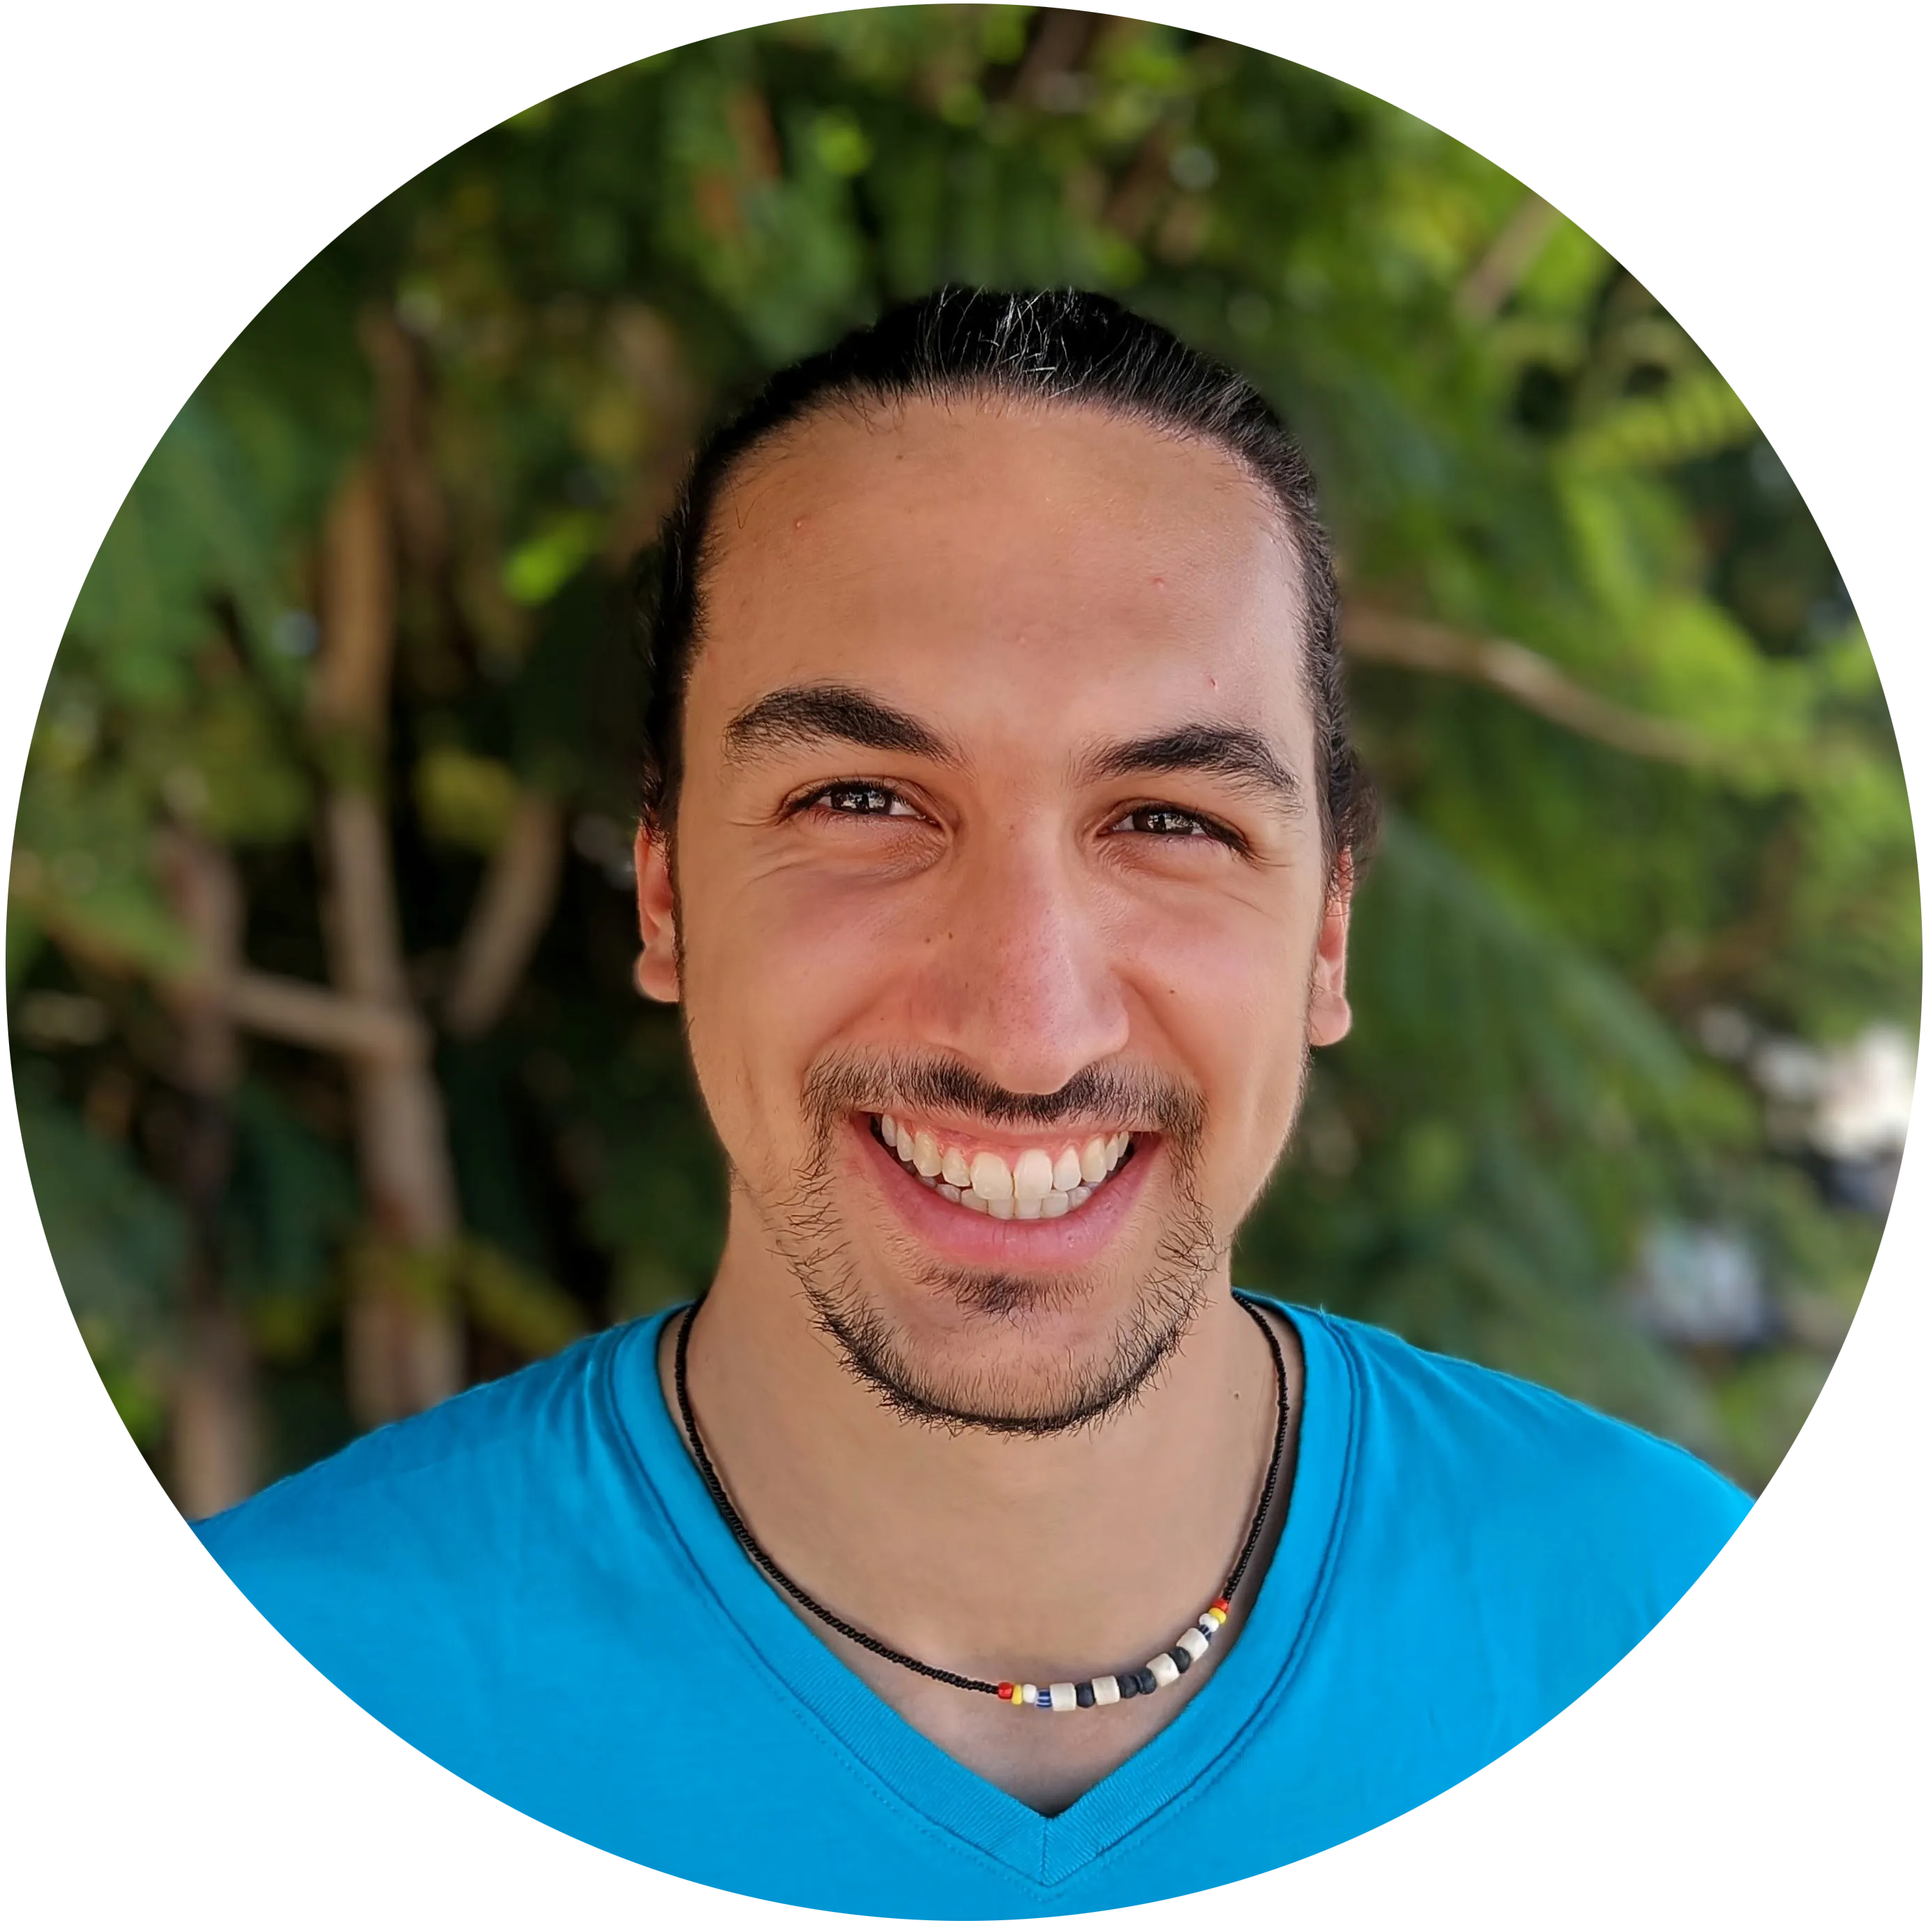
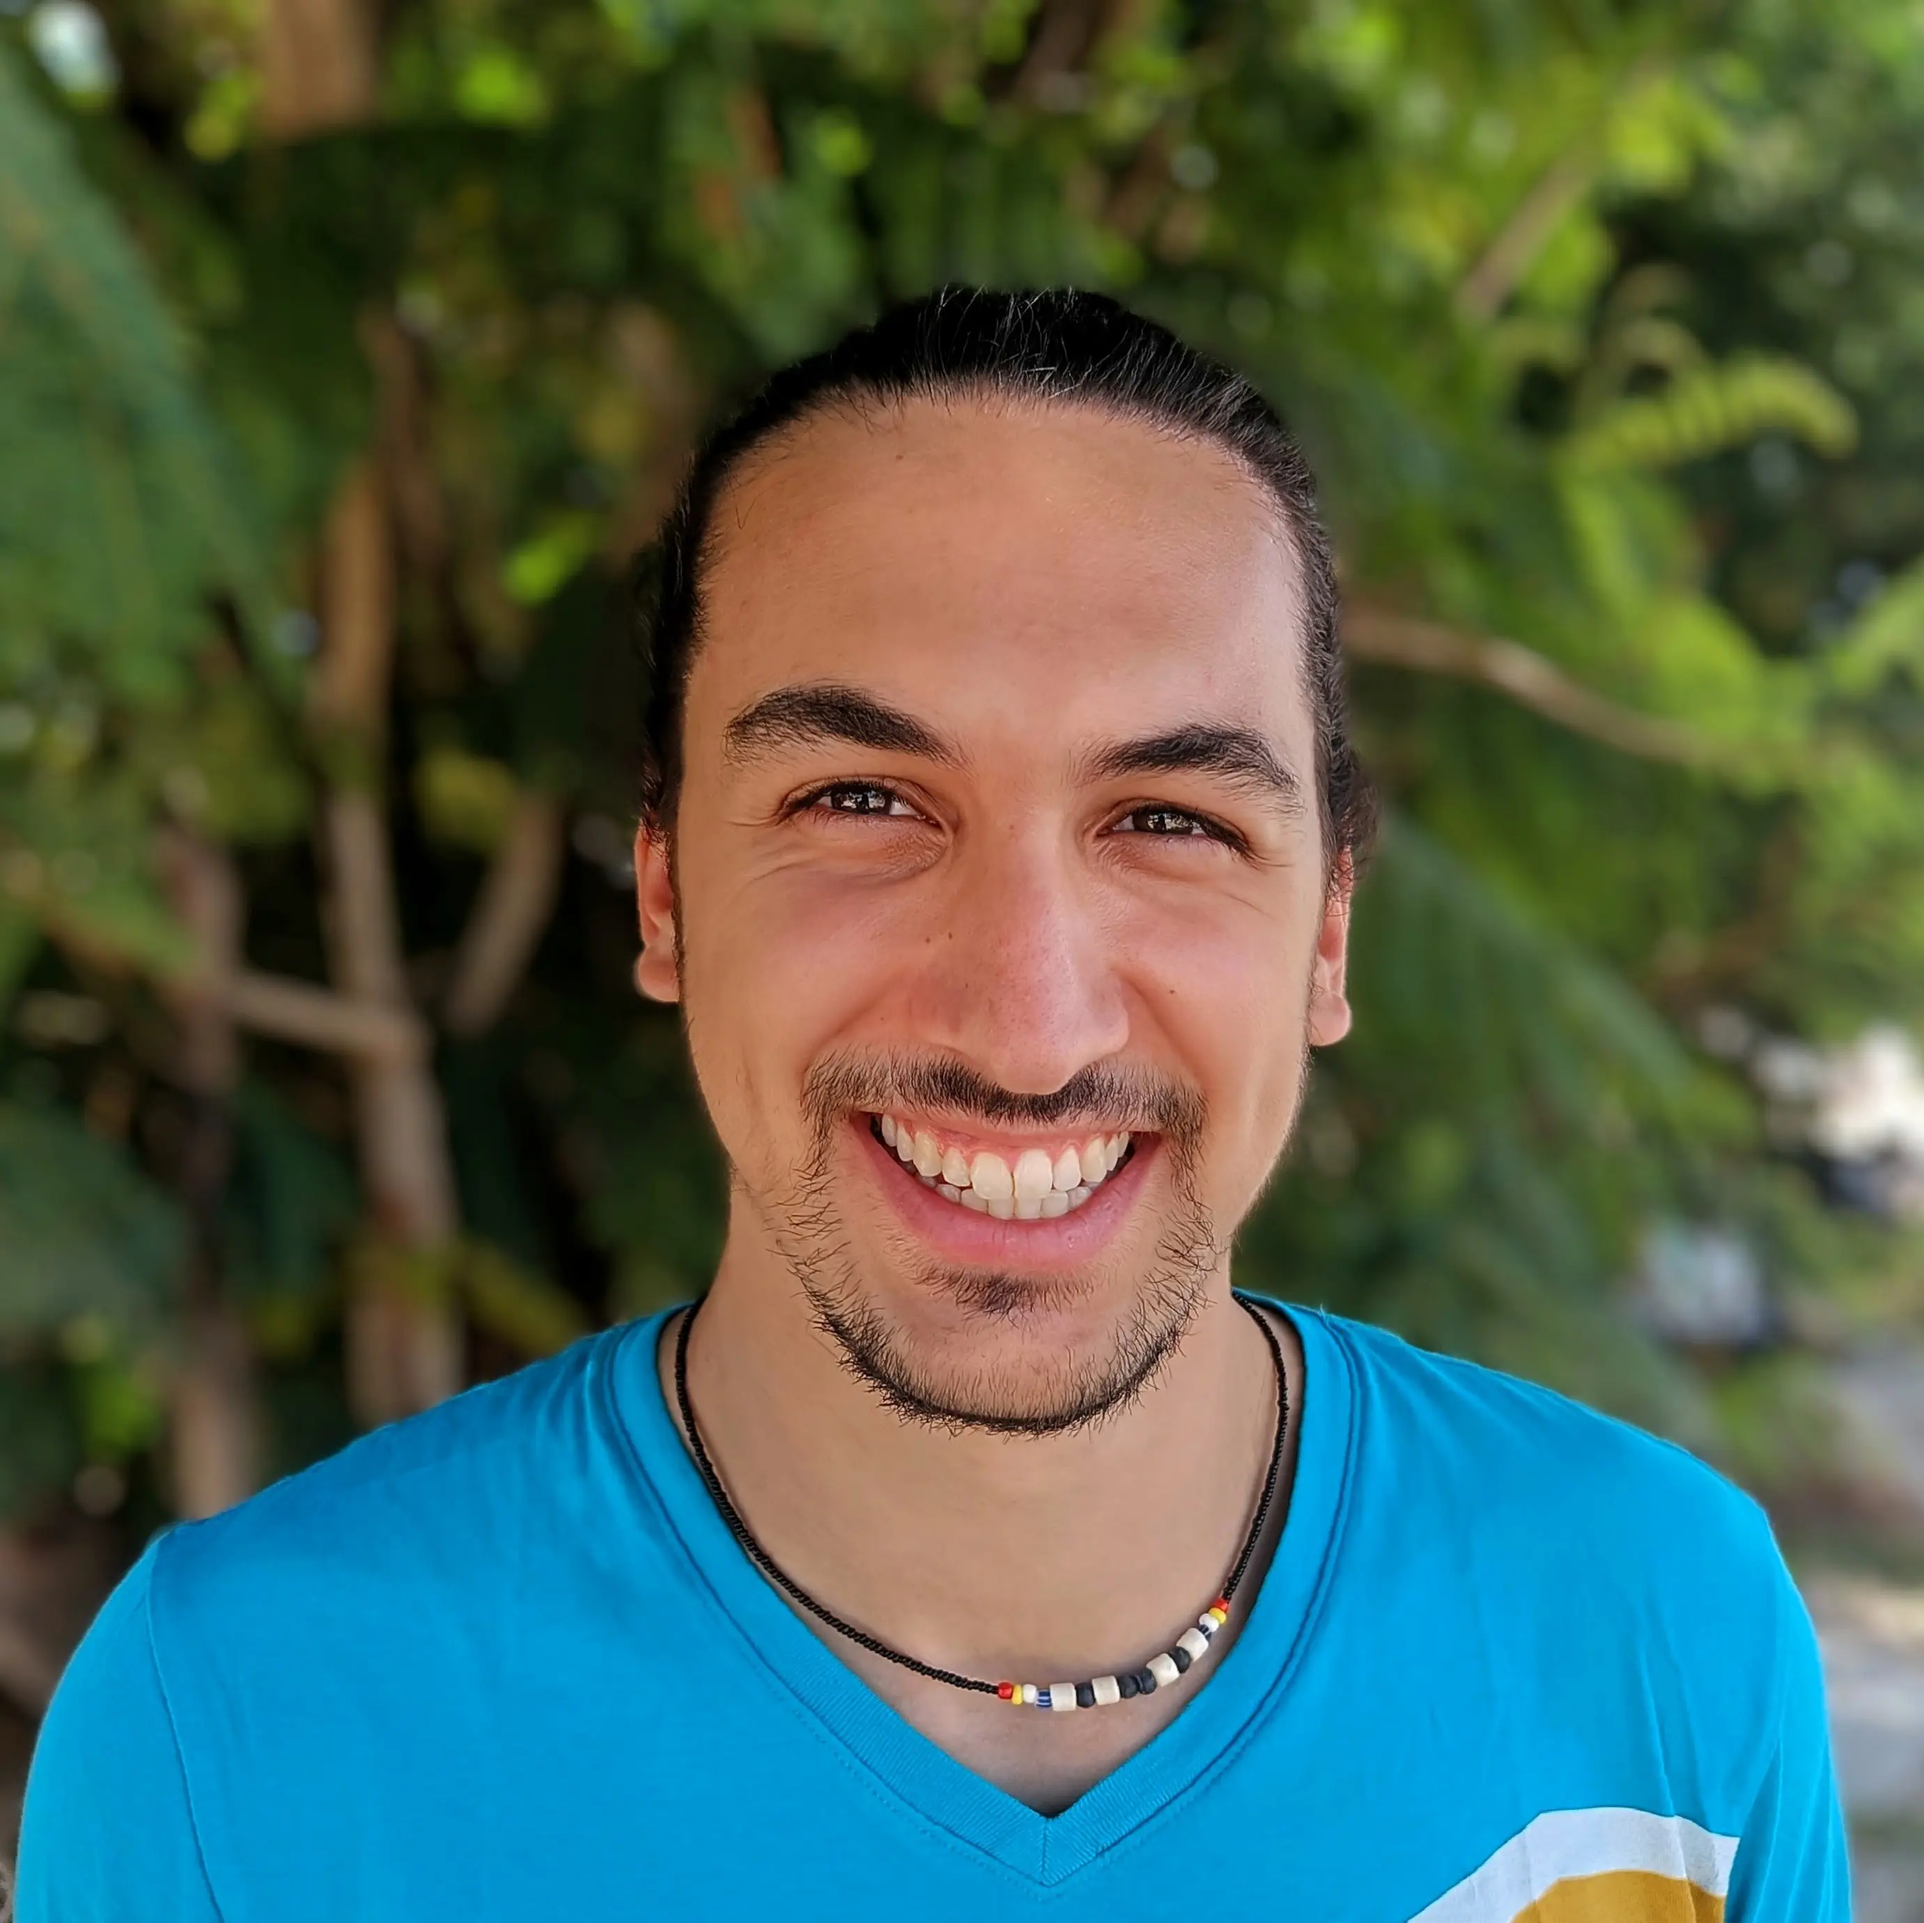
Improved Images

Changed region(s): [[0.0, 0.0, 1.0, 1.0], [0.4982, 0.1558, 0.5605, 0.187]]

diff --git a/css/sections/about.css b/css/sections/about.css
@@ -35,8 +35,10 @@
   object-fit: cover;
   border-radius: var(--radius-xl);
   box-shadow: var(--shadow-lg);
-  transition: transform var(--duration-slow) var(--ease-out),
-              box-shadow var(--duration-slow) var(--ease-out);
+  /* background-color: #bccbde;  */ /* f4f5f7 */
+  transition:
+    transform var(--duration-slow) var(--ease-out),
+    box-shadow var(--duration-slow) var(--ease-out);
 }
 
 .about-photo img:hover {
@@ -63,7 +65,9 @@
   border-radius: 2px;
 }
 
-.about-text h4:first-child { margin-top: 0; }
+.about-text h4:first-child {
+  margin-top: 0;
+}
 
 .about-text p {
   text-align: left;

diff --git a/css/sections/additional.css b/css/sections/additional.css
@@ -47,6 +47,7 @@
 .additional-grid img {
   border-radius: var(--radius-lg);
   box-shadow: var(--shadow-md);
+  background-color: #c2dde6;
   transition: transform var(--duration-slow) var(--ease-out),
               box-shadow var(--duration-slow) var(--ease-out);
   justify-self: center;
